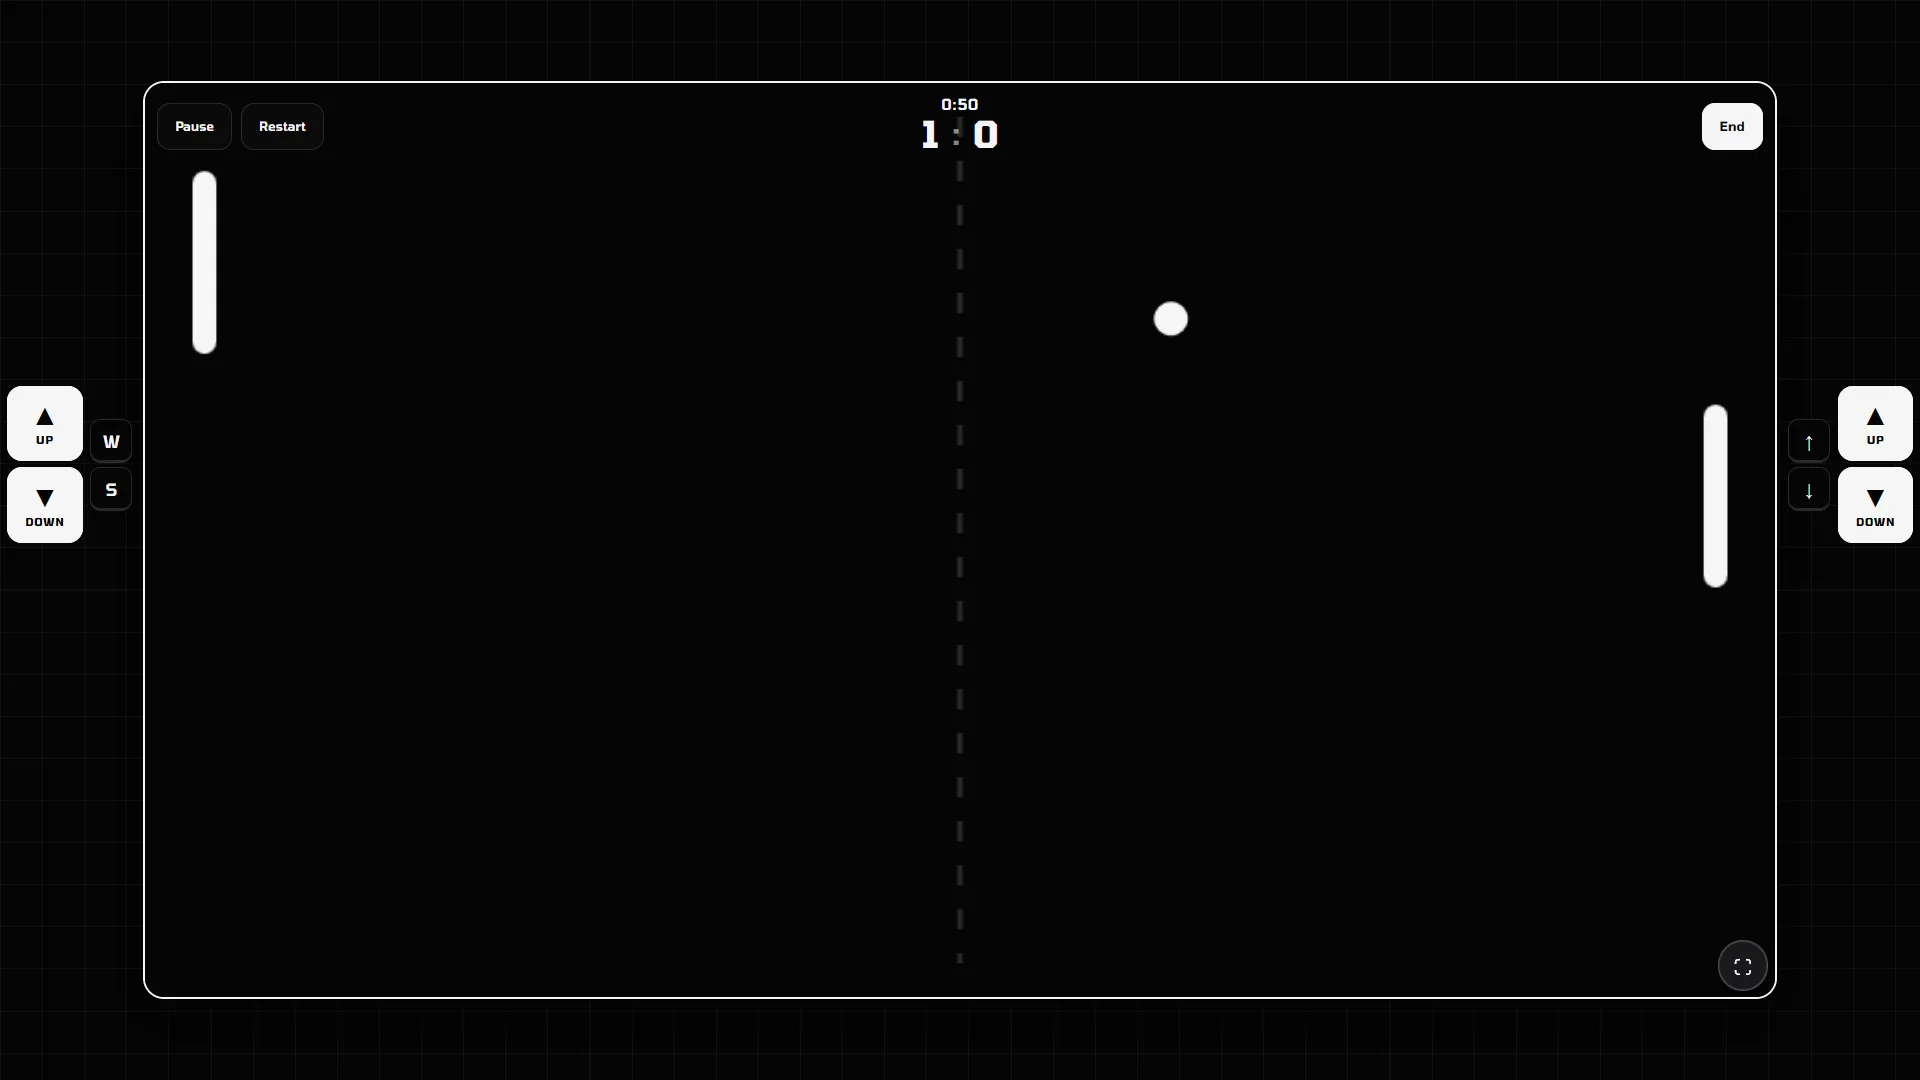
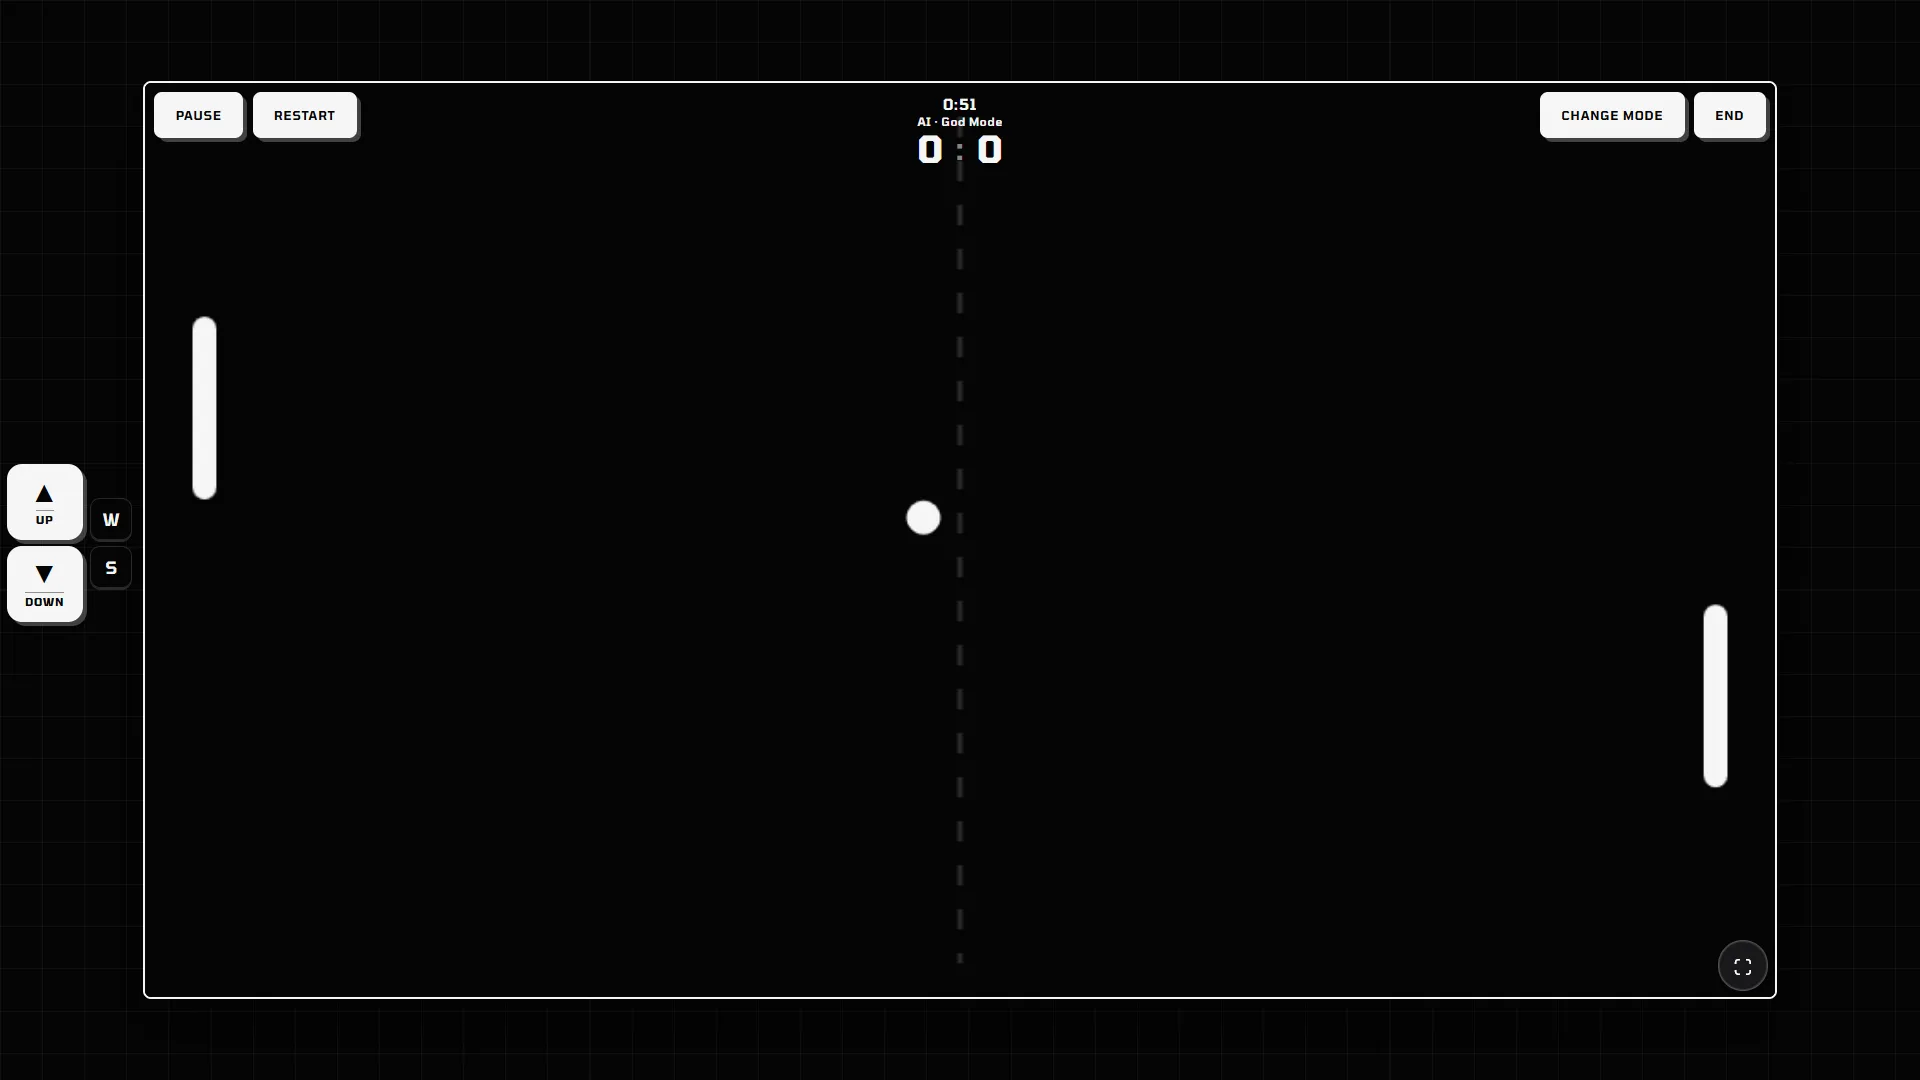
updated game design

diff --git a/pong-reimagined/index.html b/pong-reimagined/index.html
@@ -43,7 +43,7 @@
     <link rel="icon" type="image/webp" href="../assets/images/tabicon.webp">
     <script src="/js/theme.js?theme=5"></script>
     <link rel="stylesheet" href="../css/style.css?interface=104">
-    <link rel="stylesheet" href="../css/pong-reimagined.css?v=15">
+    <link rel="stylesheet" href="../css/pong-reimagined.css?v=17">
     <title>Pong Reimagined | Chill-Astro Software</title>
 </head>
 <body class="pong-page">
@@ -139,10 +139,10 @@
                     </div>
                     <button class="fullscreen-game-button game-fullscreen-button" id="fullscreen-game" type="button" aria-label="Enter fullscreen" aria-pressed="false"><span aria-hidden="true">⛶</span></button>
                     <div class="game-actions" id="game-actions">
-                        <button class="game-action" id="pause-game" type="button" hidden>Pause</button>
-                        <button class="game-action" id="restart-game" type="button" hidden>Restart</button>
-                        <button class="game-action" id="change-mode" type="button" hidden>Change mode</button>
-                        <button class="game-action game-action-end" id="end-game" type="button" hidden>End</button>
+                        <button class="game-action site-button site-button--primary" id="pause-game" type="button" hidden>Pause</button>
+                        <button class="game-action site-button site-button--primary" id="restart-game" type="button" hidden>Restart</button>
+                        <button class="game-action site-button site-button--primary" id="change-mode" type="button" hidden>Change mode</button>
+                        <button class="game-action game-action-end site-button site-button--primary" id="end-game" type="button" hidden>End</button>
                     </div>
                 </div>
             </div>

diff --git a/css/pong-reimagined.css b/css/pong-reimagined.css
@@ -2594,6 +2594,11 @@ kbd {
     pointer-events: auto;
 }
 
+.pong-game .game-actions[hidden],
+.pong-game .game-actions > [hidden] {
+    display: none !important;
+}
+
 .pong-game #pause-game { grid-column: 1; }
 .pong-game #restart-game { grid-column: 2; }
 .pong-game #end-game {
@@ -2811,6 +2816,8 @@ kbd {
 .pong-game:fullscreen .game-actions > .game-action { pointer-events: auto; }
 .pong-game:fullscreen #change-mode { grid-column: 4; }
 .pong-game:fullscreen #end-game { grid-column: 5; }
+
+.pong-game .court-frame { border-radius: var(--site-button-radius, 8px) !important; }
 
 .pong-game .overlay-actions {
     display: flex;

diff --git a/css/premium-dino-theme.css b/css/premium-dino-theme.css
@@ -242,5 +242,7 @@ body.dino-page > #footer > .site-footer { height: auto; min-height: 0; }
 .dino-frame .runner-canvas{display:block;width:100%!important;height:100%!important;image-rendering:pixelated}
 .dino-attribution{position:static;margin:.5rem .75rem 0;text-align:right}
 
+.dino-game .dino-frame { border-radius: var(--site-button-radius, 8px) !important; }
+
 /* Scope the original runner night effect to the game artwork. */
 .dino-frame.inverted .runner-canvas{filter:invert(1);background:#fff}

diff --git a/tic-tac-toe/index.html b/tic-tac-toe/index.html
@@ -99,7 +99,7 @@
     <link rel="icon" type="image/webp" href="../assets/images/tabicon.webp">
     <script src="/js/theme.js?theme=5"></script>
     <link rel="stylesheet" href="../css/style.css?interface=98">
-    <link rel="stylesheet" href="../css/tic-tac-toe.css?v=21">
+    <link rel="stylesheet" href="../css/tic-tac-toe.css?v=22">
     <title>Tic Tac Toe Online | Chill-Astro Software</title>
 </head>
 <body class="tic-tac-toe-page">

diff --git a/premium-dino/index.html b/premium-dino/index.html
@@ -99,7 +99,7 @@
     <script src="/js/theme.js?theme=5"></script>
     <link rel="stylesheet" href="../css/style.css?interface=104">
     <link rel="stylesheet" href="../css/premium-dino.css?v=1">
-    <link rel="stylesheet" href="../css/premium-dino-theme.css?v=29">
+    <link rel="stylesheet" href="../css/premium-dino-theme.css?v=30">
     <title>Premium Dino | Chill-Astro Software</title>
 </head>
 <body class="dino-page">

diff --git a/css/tic-tac-toe.css b/css/tic-tac-toe.css
@@ -945,3 +945,7 @@ html[data-theme="dark"] body.tic-tac-toe-page .ttt-mode-dialog {
 html[data-theme="dark"] body.tic-tac-toe-page .ttt-mode-dialog > p {
     color: #b4b4b4 !important;
 }
+
+body.tic-tac-toe-page .ttt-game {
+    border-radius: var(--site-button-radius, 8px) !important;
+}
